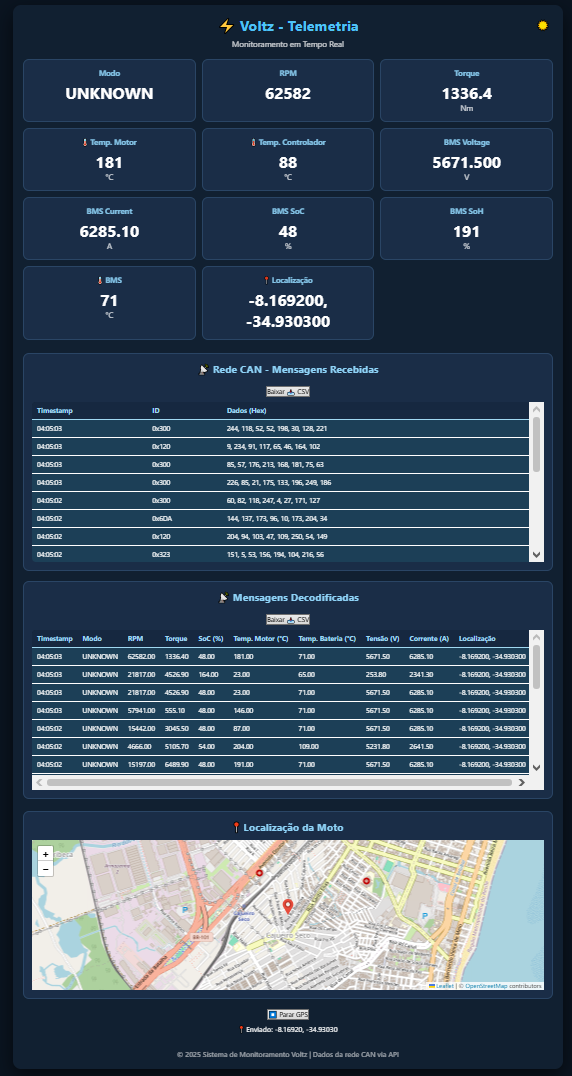
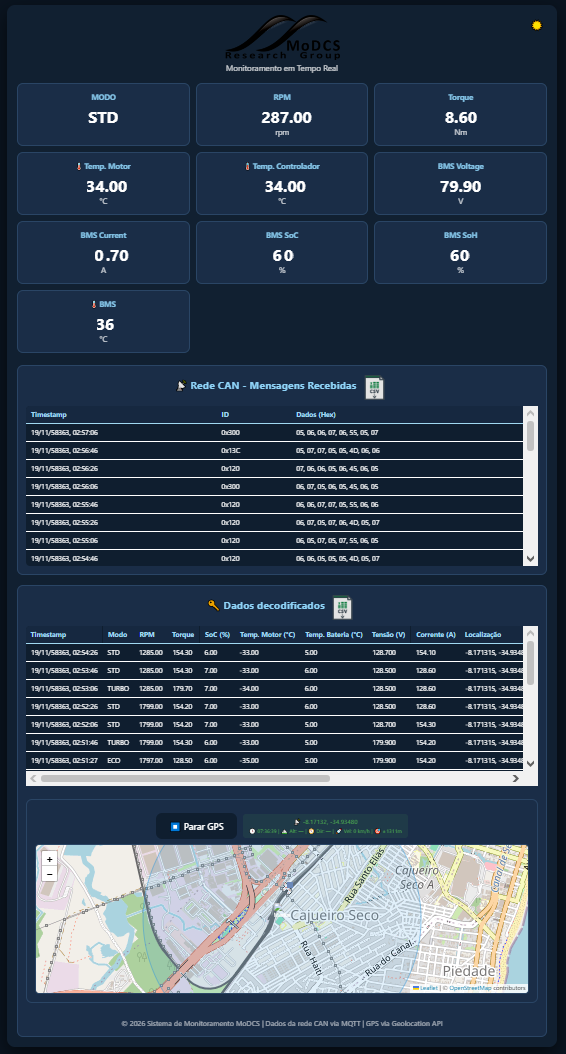
Update README and adjust MQTT server configuration in sketch_def.ino

diff --git a/README.md b/README.md
@@ -1,15 +1,17 @@
-# 🔋 Voltz - Sistema de Telemetria para Moto Elétrica
+# 🔋 MoDCS - Sistema de Telemetria para Moto Elétrica
 
-![Dashboard Preview](/src/img/dashboard.png)
+![Dashboard Preview](/public/img/dashboard.png)
 
-> **API + Dashboard em tempo real para monitoramento da moto elétrica Voltz**  
-> Solução completa para leitura, processamento e visualização de dados telemétricos via rede CAN.
+> **API + Dashboard em tempo real para monitoramento da moto elétrica MoDCS**  
+> Solução completa para leitura, processamento e visualização de dados telemétricos via rede CAN e MQTT.
 
 ---
 
 ## 🚀 Visão Geral
 
-O **Voltz Telemetry** é um sistema full-stack que combina uma **API RESTful** com um **dashboard web interativo** para monitorar em tempo real os parâmetros críticos da moto elétrica da **Voltz**. O projeto foi desenvolvido para permitir o acompanhamento de desempenho, estado da bateria, localização e mensagens da rede CAN, sendo ideal para testes de campo, desenvolvimento de firmware, manutenção e análise de dados.
+O **MoDCS Telemetry** é um sistema full-stack que combina uma **API RESTful** com um **dashboard web interativo** para monitorar em tempo real os parâmetros críticos da moto elétrica **Voltz**. O ESP32 coleta dados da rede CAN e os envia via **MQTT** para a API, que processa, armazena no MongoDB e disponibiliza para o dashboard via WebSocket/REST.
+
+Ideal para: testes de campo, desenvolvimento de firmware, manutenção preditiva e análise de dados de veículos elétricos.
 
 ---
 
@@ -19,40 +21,138 @@ O **Voltz Telemetry** é um sistema full-stack que combina uma **API RESTful** c
 - Velocidade atual (km/h)  
 - Nível de bateria (%) e SoC (State of Charge)  
 - Autonomia estimada (km)  
-- Temperatura da bateria (°C)  
+- Temperatura da bateria e do motor (°C)  
 - Modo de condução (Eco, Normal, Sport)  
 - Potência instantânea (kW)  
 - Mapa de localização em tempo real (OpenStreetMap + Leaflet)  
-- Log de mensagens CAN (ID, dados brutos, timestamp)
+- Log de mensagens CAN (ID, dados brutos, timestamp)  
+- Exportação de dados em CSV
 
-✅ **API RESTful**
+✅ **API RESTful + WebSocket**
 - Endpoints para acesso estruturado aos dados do veículo  
-- Recebe e processa frames CAN (via WebSocket ou POST)  
+- Recebe frames CAN via **MQTT** (tópico: `moto/telemetria`)  
 - Respostas em JSON padronizado  
 - Suporte a modo simulação (mock data)  
-- Segurança opcional com API Key
+- Segurança com API Key e CORS configurável  
+- Documentação com Swagger/OpenAPI
 
-✅ **Integração com Rede CAN**
-- Leitura e decodificação de mensagens CAN 2.0B  
-- Mapeamento de IDs para sinais (ex: velocidade, voltagem, corrente)  
-- Conversão de dados brutos para valores físicos
+✅ **Integração CAN + MQTT + ESP32**
+- Leitura e decodificação de mensagens CAN 2.0B no ESP32  
+- Mapeamento de IDs para sinais físicos (velocidade, voltagem, corrente, temperatura)  
+- Envio assíncrono via MQTT para o broker  
+- Reconexão automática e tratamento de erros no cliente MQTT
 
 ---
 
 ## 🛠️ Tecnologias Utilizadas
 
-| Camada      | Tecnologia                          |
-|-------------|-------------------------------------|
-| Frontend    | HTML, CSS, JavaScript               |
-| Backend     | Node.js + Mongo + Express           |
-| Comunicação | REST API + WebSocket                |
-| Mapas       | OpenStreetMap                       |
-| Deploy      | Kubernets (K3s)                     |
+| Camada        | Tecnologia                                |
+|---------------|------------------------------------------ |
+| Frontend      | HTML5, CSS3, JavaScript                   |
+| Backend       | Node.js + Express + MongoDB               |
+| Comunicação   | REST API + WebSocket + MQTT               |
+| Telemetria    | Rede CAN 2.0B + ESP32 + FreeRTOS          |
+| Mapas         | OpenStreetMap + Leaflet.js                |
+| Documentação  | Swagger (OpenAPI 3.0)                     |
+| Testes        | Jest + Supertest + mongodb-memory-server  |
+| Deploy        | Kubernetes (K3s) + Docker                 |
 
 ---
 
 ## 📁 Estrutura do Projeto
--- Em desenvolvimento
+```
+apiVoltz/
+    ├── sketch_def/
+    │   └── sketch_def.ino          # FreeRTOS
+```
+# Guia de Instalação e Conexão MQTT — apiVoltz
+
+> Este guia explica passo a passo como instalar o **Mosquitto MQTT Broker**, configurar o arquivo `.env` da API e estabelecer a conexão entre a API Node.js e o broker MQTT para telemetria da moto elétrica Voltz.
+
+
+## 🦟 O que é o Mosquitto?
+
+**Eclipse Mosquitto** é um broker MQTT open-source leve e de alta performance, ideal para IoT e telemetria em tempo real. Ele atua como intermediário entre dispositivos (ESP32) e a API, recebendo mensagens publicadas e entregando aos assinantes.
+
+---
+
+## 🔧 Etapa 1 — Instalação do Mosquitto
+
+### Linux (Ubuntu/Debian)
+
+```bash
+# Atualizar repositórios
+sudo apt-get update
+
+# Instalar Mosquitto e clientes
+sudo apt-get install -y mosquitto mosquitto-clients
+
+# Iniciar serviço
+sudo systemctl start mosquitto
+sudo systemctl enable mosquitto
+
+# Verificar status
+sudo systemctl status mosquitto
+```
+
+### macOS (Homebrew)
+
+```bash
+# Instalar
+brew install mosquitto
+
+# Iniciar serviço
+brew services start mosquitto
+
+# Verificar status
+brew services list | grep mosquitto
+```
+
+### Windows
+
+1. Baixe o instalador em: [https://mosquitto.org/download/](https://mosquitto.org/download/)
+2. Execute o instalador `.exe` e siga as instruções
+3. O serviço será instalado automaticamente e iniciado na porta **1883**
+4. Verifique no *Services* (services.msc) se o "Mosquitto Broker" está rodando
+
+---
+
+## ⚙️ Etapa 2 — Configuração do Broker Mosquitto
+
+### Arquivo de Configuração
+
+Local padrão do arquivo de configuração:
+- **Linux**: `/etc/mosquitto/mosquitto.conf`
+- **macOS**: `/opt/homebrew/etc/mosquitto/mosquitto.conf` (Apple Silicon) ou `/usr/local/etc/mosquitto/mosquitto.conf` (Intel)
+- **Windows**: `C:\Program Files\mosquitto\mosquitto.conf`
+
+### Configuração Básica (sem autenticação — apenas para desenvolvimento)
+
+Edite o arquivo `mosquitto.conf`:
+
+```conf
+# Porta padrão MQTT
+listener 1883
+
+# Permitir conexões anônimas (apenas DEV!)
+allow_anonymous true
+
+# Log
+log_dest file /var/log/mosquitto/mosquitto.log
+log_type all
+
+# Persistência
+persistence true
+persistence_location /var/lib/mosquitto/
+```
+
+## 🔌 Etapa 3 — Conectar o ESP32 (Firmware) Codigo em:
+
+```
+apiVoltz/
+    ├── sketch_def/
+    │   └── sketch_def.ino          # FreeRTOS
+```
 
 ## 🔧 Como Baixar e Executar o Projeto
 
@@ -126,7 +226,16 @@ Terminal
 ```
 npm install
 ```
-## 6. Executar o Projeto
+
+## 6. Configuração do .env da API
+
+No diretório raiz do projeto `apiVoltz`, crie o arquivo `.env` baseado no `.env.example`:
+
+```bash
+cp env.example .env
+```
+
+## 7. Executar o Projeto
 Uma vez que as dependências estejam instaladas, você pode Executar o projeto.
 
 Terminal